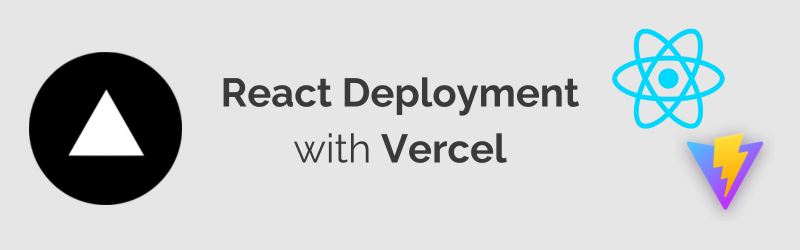
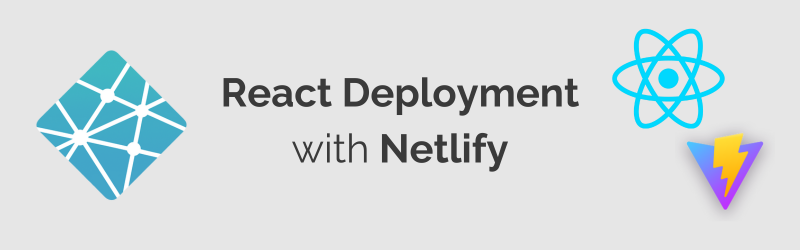
update images for netlify

Changed region(s): [[0.0312, 0.196, 0.25, 0.84], [0.3438, 0.532, 0.6562, 0.7]]

diff --git a/README.md b/README.md
@@ -1,4 +1,4 @@
-# React Deployment with Vercel
+# React Deployment with Netlify
 
 ![deploy](./images/readme-banner.png)
 
